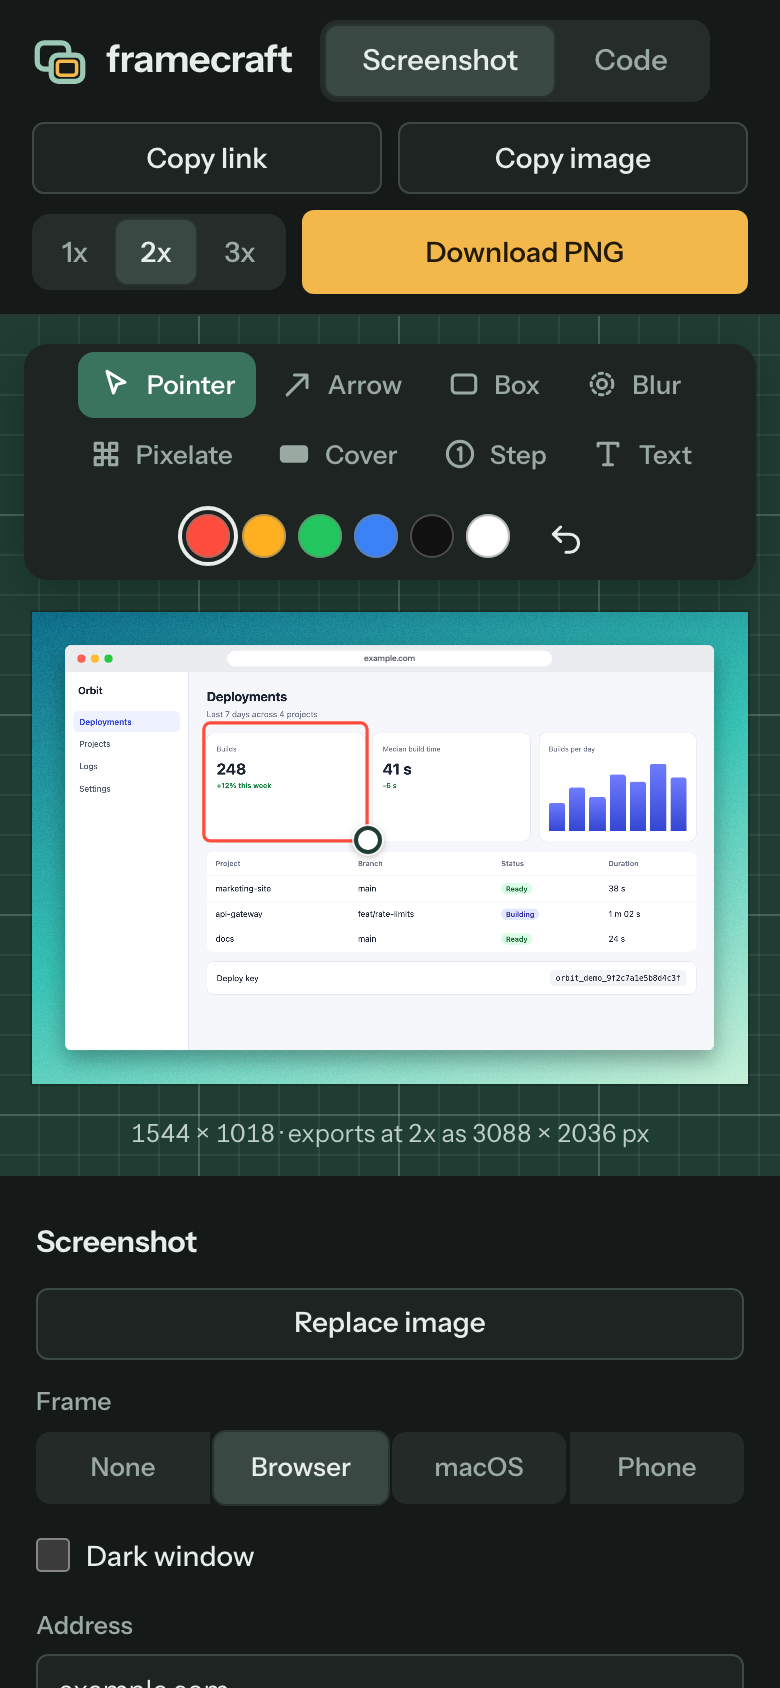
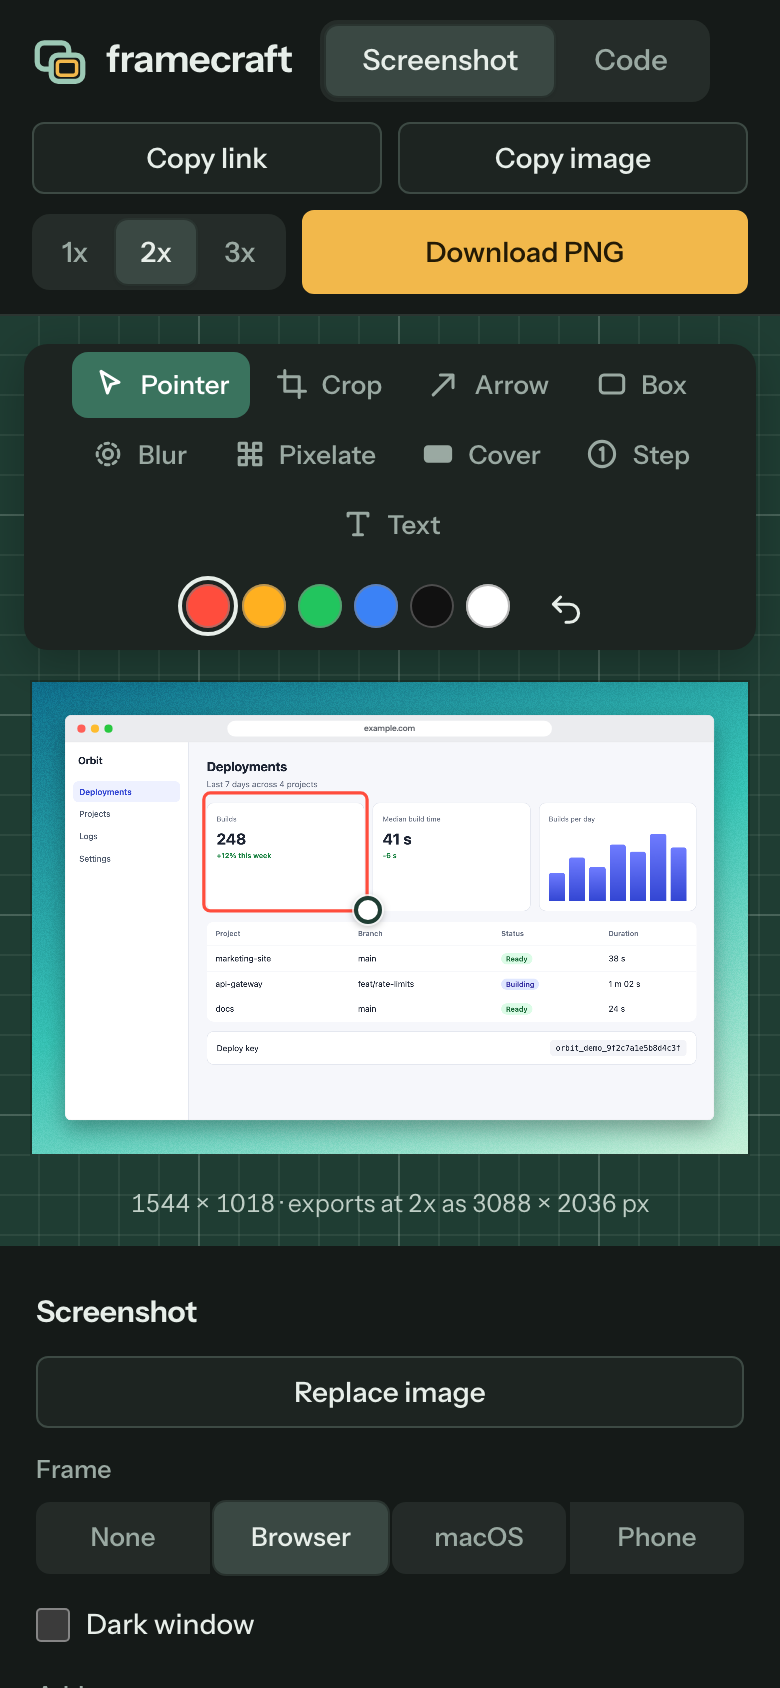
Regenerate the screenshot-mode and phone images with the Crop tool

diff --git a/CHANGELOG.md b/CHANGELOG.md
@@ -32,8 +32,12 @@ All notable changes to this project are documented here. The format follows
     keyboard resizes and Delete resets, undo steps back, the crop survives a link, and replacing the image clears it.
 - Round 12, known limits: with the Pointer an annotation can still be dragged past the crop's edge, where it is
   hidden (it stays in the Annotations list and the keyboard can move it back). There is no aspect-ratio lock for the
-  crop. A label placed right at the crop's edge can be partly cut off. `docs/` images were not regenerated; none
-  shows the Crop tool yet.
+  crop. A label placed right at the crop's edge can be partly cut off. With the Crop tool on the phone frame, the
+  preview's dimming also darkens the bezel's rounded corners a little (preview only). Codex was out of quota again
+  (second opinion by hand: annotations hidden outside the crop are no longer grabbed by the Pointer and show no
+  resize handle). Firefox and WebKit ran only in CI.
+- Round 12: `docs/screenshots/screenshot-mode.png` and `phone.png` regenerated with `scripts/readme-images.mjs` so
+  the toolbar shows Crop; no README image shows a cropped screenshot.
 
 ### Security
 
